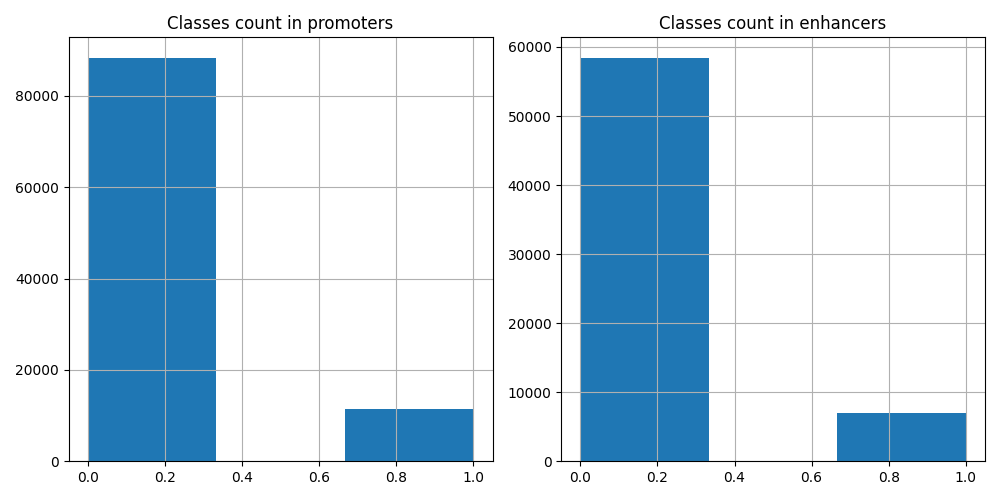
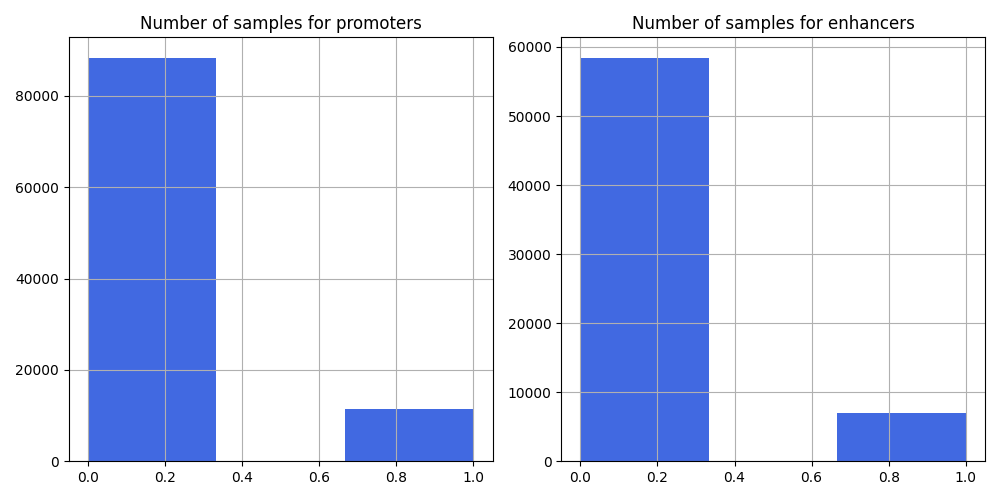
data_checking.py: changed hist color

diff --git a/bioinformatics_project/data_retrieval_and_manipulation/data_checking.py b/bioinformatics_project/data_retrieval_and_manipulation/data_checking.py
@@ -37,6 +37,6 @@ class DataChecking:
 
         for axis, (region, y) in zip(axes.ravel(), [('promoters', self._data.get_promoters_labels()),
                                                     ('enhancers', self._data.get_enhancers_labels())]):
-            y.hist(ax=axis, bins=3)
-            axis.set_title(f"Classes count in {region}")
+            y.hist(color='royalblue', ax=axis, bins=3)
+            axis.set_title(f'Number of samples for {region}')
         fig.show()
